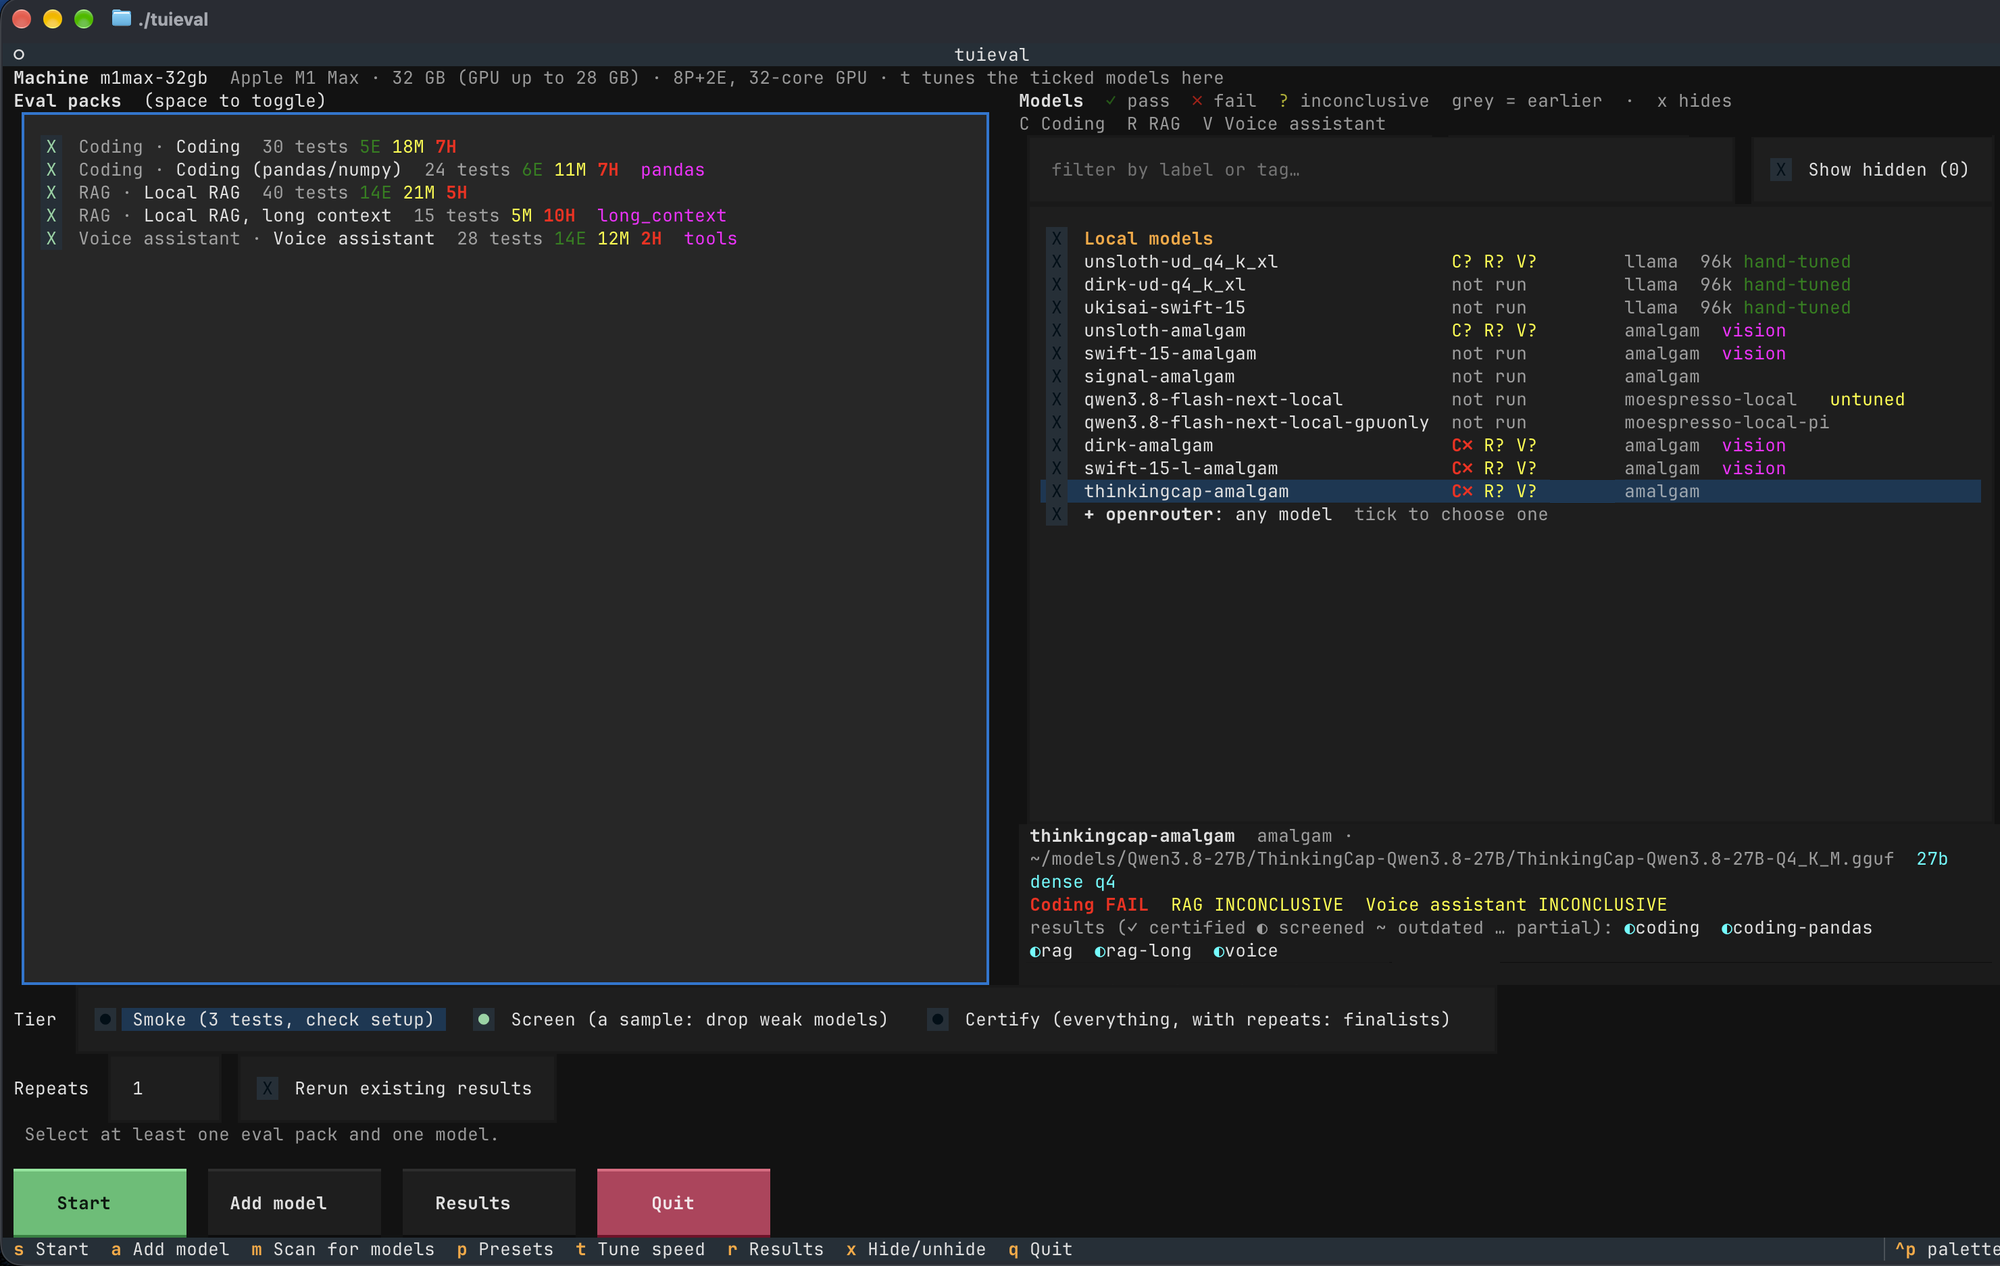
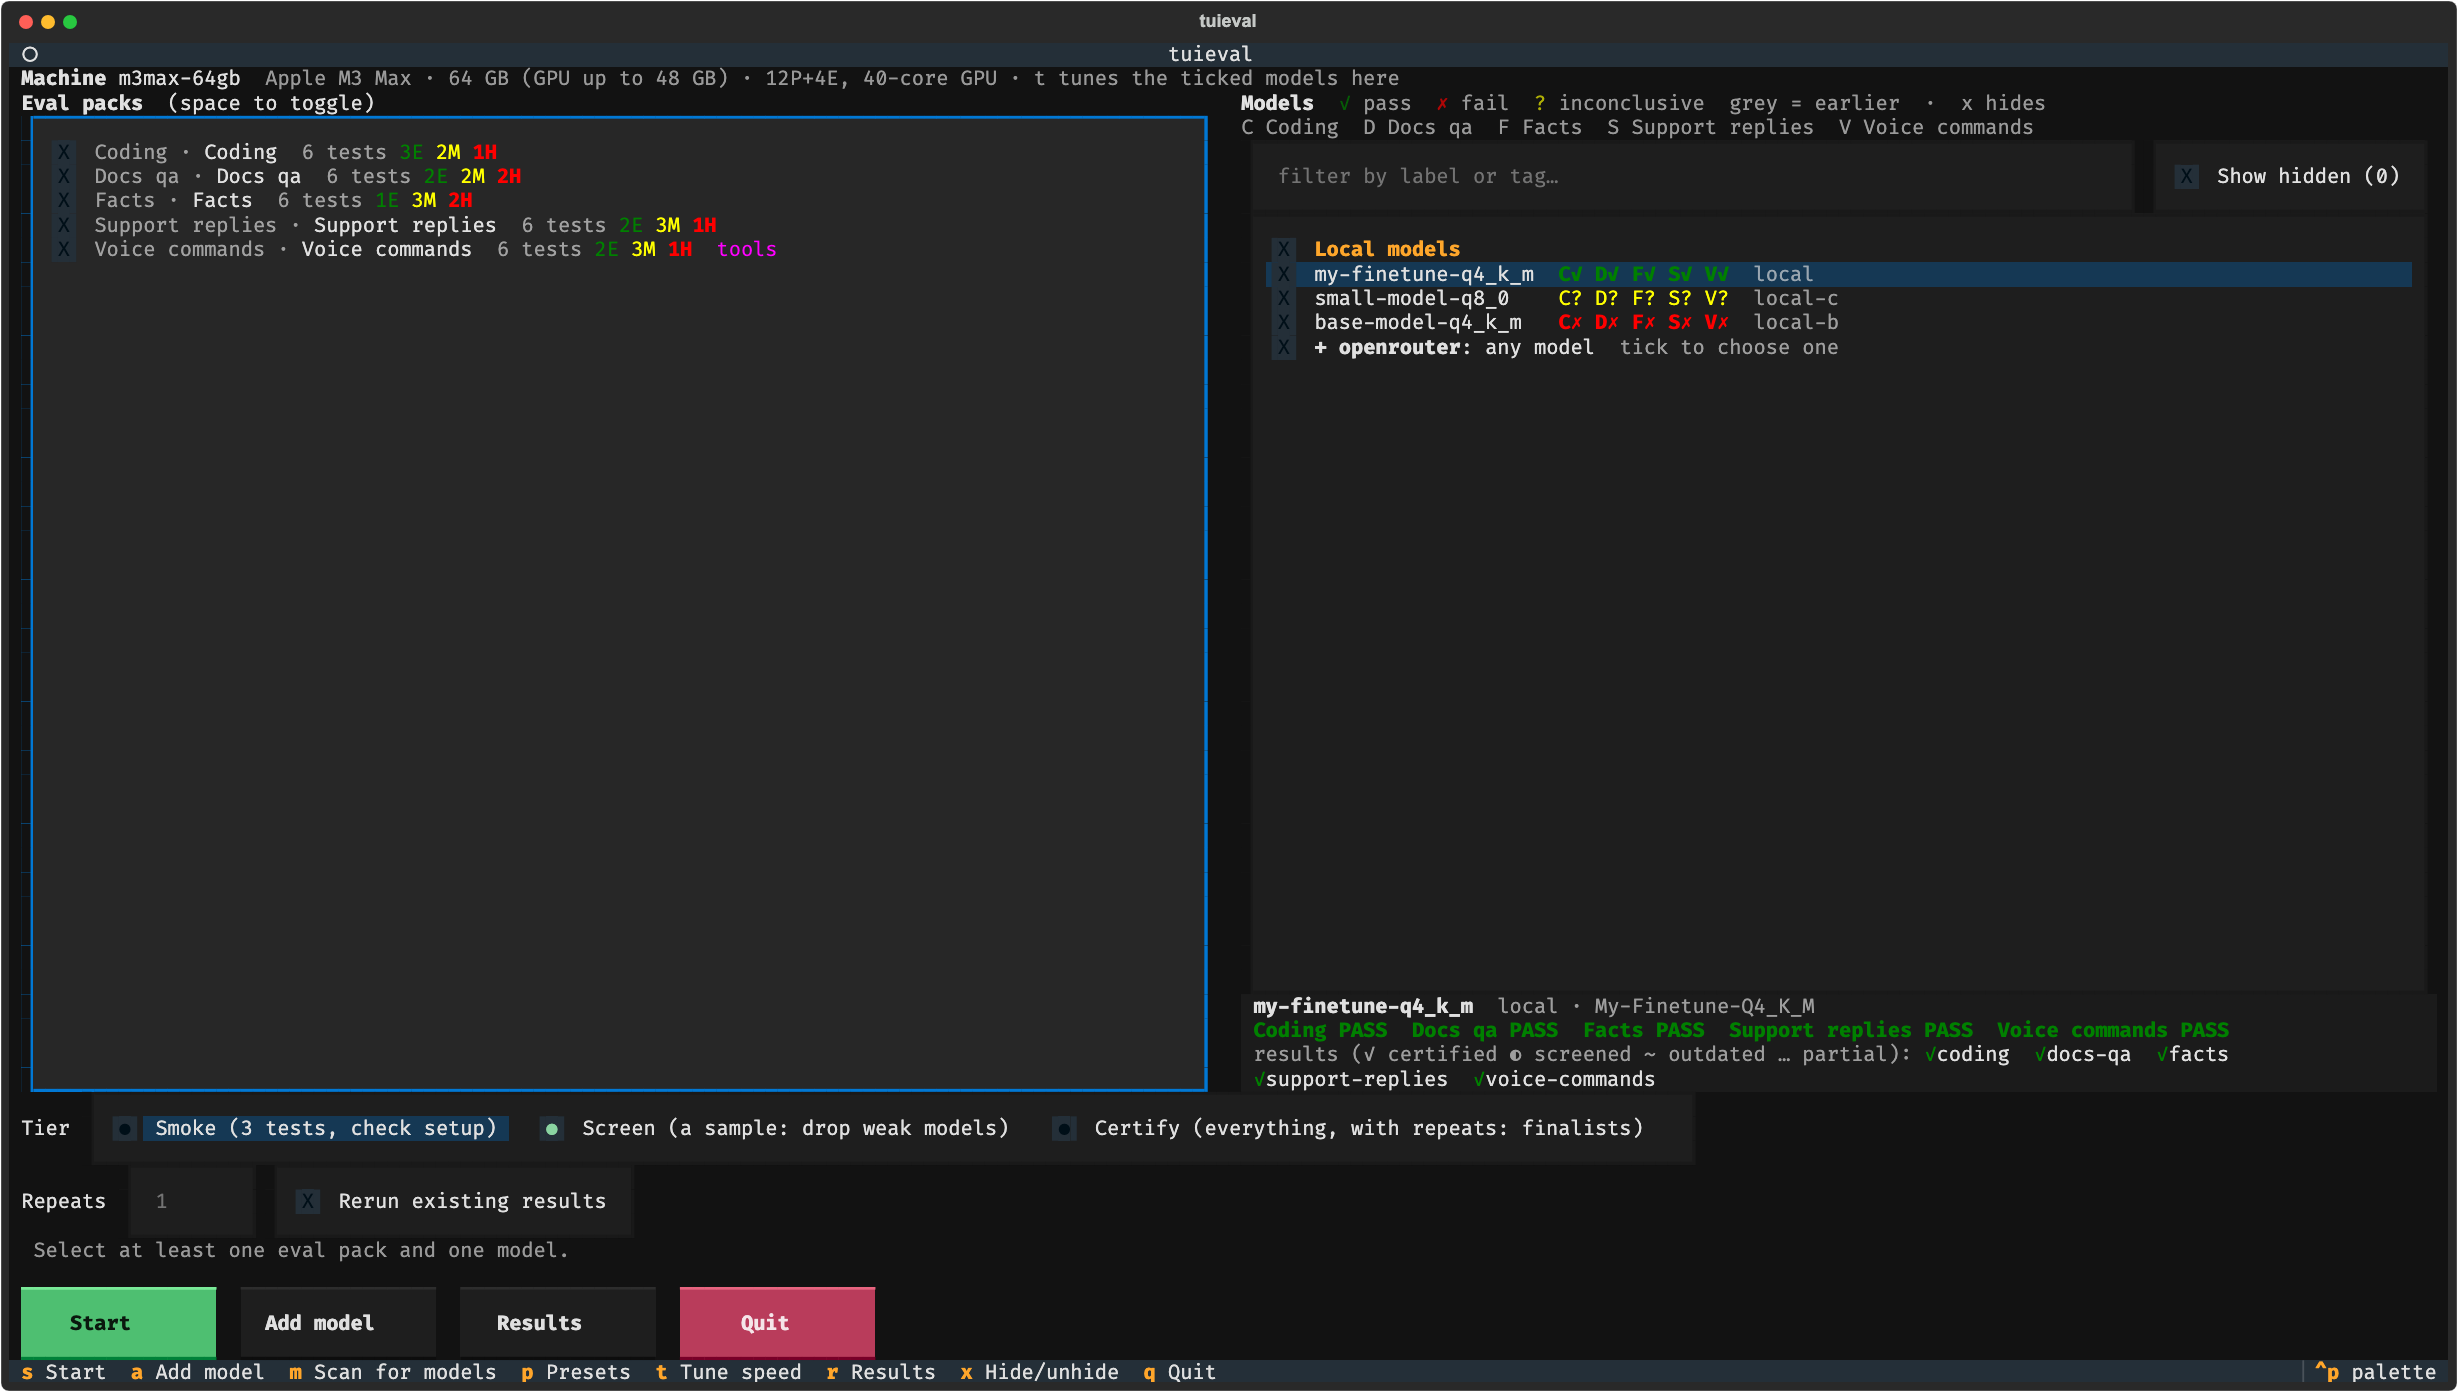
Keep docs and defaults generic; new README screenshot
- export pi has no default presets path; it is set with [export.pi] presets (the llama.cpp
  router's --models-preset file), and the docs describe the router generically.
- Machine examples and the GPU residency note no longer name a specific Mac.
- The README screenshot comes from a demo workspace (starter packs, three demo models).

Changed region(s): [[0.0, 0.0, 1.0, 1.0]]

diff --git a/src/tuieval/export.py b/src/tuieval/export.py
@@ -1,17 +1,18 @@
 """Export a model's serving settings to the pi coding agent, so pi serves it exactly as the evals did:
 the same model file, output-affecting flags and context, plus the speed flags tuned on this machine.
 
-  a section in llama-router's presets (~/models/presets.ini; keys that equal the [*] section are
-  left out) and an entry under pi's `llama` provider modelOverrides. Models on llama servers only.
+  a section in a llama.cpp router's model presets file (llama-server --models-preset; keys that
+  equal its [*] section are left out) and an entry under pi's `llama` provider modelOverrides.
+  Models on llama servers only.
 
 Every file is backed up next to itself (<file>.bak-tuieval-<time>) before it changes, and the diff
 is shown first. Paths come from models.toml [export.pi]:
 
   [export.pi]
-  presets = "~/models/presets.ini"            # llama-router --models-preset
+  presets = "/path/to/presets.ini"            # required: the router's --models-preset file
   pi_models = "~/.pi/agent/models.json"
   llama_provider = "llama"                     # pi's provider name for the router
-  servers = ["llama"]                          # models.toml servers that llama-router can serve
+  servers = ["llama"]                          # models.toml servers the router can serve
 """
 import configparser
 import difflib
@@ -23,7 +24,7 @@ import time
 
 from . import engine as engine_mod
 
-DEFAULTS = {"presets": "~/models/presets.ini", "pi_models": "~/.pi/agent/models.json",
+DEFAULTS = {"presets": None, "pi_models": "~/.pi/agent/models.json",
             "llama_provider": "llama", "servers": ["llama"]}
 # llama.cpp short flags -> the long names presets use as keys
 SHORT = {"-m": "model", "-c": "ctx-size", "-t": "threads", "-tb": "threads-batch", "-ub": "ubatch-size",
@@ -127,7 +128,7 @@ def plan(eng, label, model_id=None, name=None):
     m = eng.model(label)
     s = settings(eng)
     if m["server"] not in s["servers"]:
-        raise ExportError(f"{label} runs on the {m['server']} server; pi export writes llama-router presets, "
+        raise ExportError(f"{label} runs on the {m['server']} server; pi export writes llama.cpp router presets, "
                           "for llama servers ([export.pi] servers lists them)")
     model_id = model_id or m.get("pi_id") or default_id(m)
     name = name or m.get("pi_name") or model_id
@@ -157,6 +158,8 @@ def plan(eng, label, model_id=None, name=None):
     for k, key in SAMPLING_KEYS.items():
         if sampling.get(k) is not None:
             flags[key] = str(sampling[k])
+    if not s.get("presets"):
+        raise ExportError("set [export.pi] presets in models.toml to your llama.cpp router's --models-preset file")
     path = engine_mod.expand(s["presets"])
     old = _read(path)
     if not old:
@@ -183,7 +186,7 @@ def plan(eng, label, model_id=None, name=None):
                   "maxTokens": entry.get("maxTokens", sampling.get("max_tokens")),
                   "reasoning": bool(sampling.get("enable_thinking", True)),
                   "input": ["text", "image"] if vision else ["text"]})
-    notes.append("restart llama-router to load the new presets (llama-router restart)")
+    notes.append("restart the llama.cpp router so it reads the new presets")
     if sampling.get("reasoning_effort"):
         notes.append(f"the evals ran reasoning_effort {sampling['reasoning_effort']}: pick that thinking level in pi")
     pi_new = json.dumps(pi, indent=2, ensure_ascii=False) + "\n"

diff --git a/src/tuieval/machines.py b/src/tuieval/machines.py
@@ -1,6 +1,6 @@
 """Which machine this is, what a model needs, and whether it fits.
 
-    detect()              -> Machine (chip, cores, RAM, GPU memory limit, id like "m1max-32gb")
+    detect()              -> Machine (chip, cores, RAM, GPU memory limit, id like "m3max-64gb")
     read_gguf(path)       -> GGUF header facts (architecture, layers, KV heads, context length, …)
     fit(model_path, …)    -> Fit (largest context that fits this machine, estimated memory)
 
@@ -219,8 +219,7 @@ def swapped_out_bytes():
 
 
 # ---------------------------------------------------------------- GPU residency
-# Measured on an M1 Max 32 GB with macOS 27.0: once the system's GPU allocations exceed about half
-# of RAM, the GPU driver evicts and re-maps memory on every command submission (70-95% of the
+# On Apple Silicon Macs, once the system's GPU allocations exceed about half of RAM, the GPU driver evicts and re-maps memory on every command submission (70-95% of the
 # server's CPU in the kernel, GPU idle), whatever iogpu.wired_limit_mb says. Servers that submit
 # many small GPU jobs collapse; see the stall guard in docs/models.md.
 RESIDENCY_FRACTION = 0.5

diff --git a/src/tuieval/run_evals.py b/src/tuieval/run_evals.py
@@ -576,7 +576,7 @@ def cmd_export(argv):
                                 description="Write a model's serving settings (model file, output-affecting flags, "
                                             "context and the speed flags tuned on this machine) to another tool. "
                                             "Shows the diff and asks first; every file is backed up.")
-    p.add_argument("target", choices=["pi"], help="pi: the pi coding agent (llama-router presets and pi's "
+    p.add_argument("target", choices=["pi"], help="pi: the pi coding agent (llama.cpp router presets and pi's "
                                                   "models.json)")
     p.add_argument("labels", nargs="+", help="models to export")
     p.add_argument("--id", help="the model id pi sees (default: models.toml pi_id, else the GGUF's name)")

diff --git a/tests/test_tuieval.py b/tests/test_tuieval.py
@@ -398,6 +398,11 @@ class ExportPi(unittest.TestCase):
         pi = json.loads(next(c for c in changes if c.path.endswith("models.json")).new)
         self.assertEqual(pi["providers"]["llama"]["modelOverrides"]["Old"]["contextWindow"], 98304)
 
+    def test_presets_path_is_required(self):
+        del self.eng.cfg["export"]["pi"]["presets"]
+        with self.assertRaises(self.export.ExportError):
+            self.export.plan(self.eng, "l")
+
     def test_only_llama_servers(self):
         with self.assertRaises(self.export.ExportError):
             self.export.plan(self.eng, "s")

diff --git a/src/tuieval/compare.py b/src/tuieval/compare.py
@@ -3,7 +3,7 @@
 Usage:
     tuieval compare                          # everything in results/<model>/<pack>.json
     tuieval compare --speed                  # speed & tokens table (TTFT, tok/s, tokens, memory)
-    tuieval compare --machine m4pro-24gb     # speed on another machine (measured there, or projected)
+    tuieval compare --machine m3max-64gb     # speed on another machine (measured there, or projected)
     tuieval compare --pairwise --failures    # is each difference real? which tests failed?
     tuieval compare results/some-model/*.json    # specific files
 """

diff --git a/docs/models.md b/docs/models.md
@@ -68,7 +68,7 @@ The best server flags differ per model and per machine, so tuieval splits them b
 
 ## Machines
 
-- **Machine id** is detected automatically (`m1max-32gb`, `m4pro-24gb`, …; set `EVALS_MACHINE` to rename it). Every result records the machine, the server version and the exact speed flags used. `tuieval machines` lists this machine and every other machine that has run the evals (they record themselves in `tuning/`).
+- **Machine id** is detected automatically (e.g. `m3max-64gb`, `m2-16gb`; set `EVALS_MACHINE` to rename it). Every result records the machine, the server version and the exact speed flags used. `tuieval machines` lists this machine and every other machine that has run the evals (they record themselves in `tuning/`).
 - **Fit check (Apple Silicon, llama):** before starting a GGUF, tuieval reads its header (layers, KV heads, hybrid attention layers) and picks the largest context that fits this machine's GPU memory, capped at `max_ctx`. A model that can't fit at 8k context is skipped with *doesn't fit on <machine>* instead of swapping. Packs that need more context than fits are skipped. It never quantizes the KV cache on its own, since that changes answers.
 - **Per-machine settings** go under `[machines.<id>]`: `memory_headroom_gb` (GPU memory kept free for macOS, default 4) and `gpu_residency_gb` (see the stall guard).
 
@@ -90,18 +90,18 @@ The knobs are `[servers.<name>.tune]` in `models.toml`: each knob is a list of o
 
 `tuieval export pi <model>` makes pi serve a model the way the evals did: the same file, the output-affecting flags, the context from the fit check, the model's sampling, and the speed flags tuned on this machine. `tuieval tune <model> --export-pi` does it right after tuning.
 
-It writes a `[<id>]` section in llama-router's presets file (keys that equal its `[*]` section are left out) and an entry under pi's `llama` provider `modelOverrides` (name, context window, vision, reasoning). It exports models on llama servers.
+It writes a `[<id>]` section in the model presets file of a llama.cpp router (`llama-server --models-preset <file>`; keys that equal its `[*]` section are left out) and an entry under pi's `llama` provider `modelOverrides` (name, context window, vision, reasoning). It exports models on llama servers.
 
-It shows the diff and the notes first (untuned or outdated tuning, other preset sections that name missing files, a reasoning effort to pick in pi), asks, backs every file up as `<file>.bak-tuieval-<time>`, and refuses to write a file that changed in the meantime. `--dry-run` only shows; `--yes` doesn't ask. Restart the router afterwards (`llama-router restart`).
+It shows the diff and the notes first (untuned or outdated tuning, other preset sections that name missing files, a reasoning effort to pick in pi), asks, backs every file up as `<file>.bak-tuieval-<time>`, and refuses to write a file that changed in the meantime. `--dry-run` only shows; `--yes` doesn't ask. Restart the router afterwards so it reads the new presets.
 
 The id pi sees defaults to the GGUF's name; set `pi_id` and `pi_name` on the model (or pass `--id`/`--name`). Paths and provider names come from `[export.pi]` in `models.toml`:
 
 ```toml
 [export.pi]
-presets = "~/models/presets.ini"
-pi_models = "~/.pi/agent/models.json"
+presets = "/path/to/presets.ini"           # required: the router's --models-preset file
+pi_models = "~/.pi/agent/models.json"       # pi's default
 llama_provider = "llama"     # pi's provider name for the router
-servers = ["llama"]          # models.toml servers that llama-router can serve
+servers = ["llama"]          # models.toml servers the router can serve
 ```
 
 ## Speed verdicts
@@ -110,7 +110,7 @@ Speed is judged separately, per machine: the same model can be production-grade 
 
 ## The stall guard (Apple Silicon)
 
-Measured on an M1 Max 32 GB: once the system's GPU allocations pass about half of RAM, the GPU driver evicts and re-maps memory on every GPU job, the server spends 70–95% of its CPU in the kernel while the GPU idles, and servers that submit many small GPU jobs slow to a crawl. For servers with `stall_guard = true`, tuieval samples the server's own vs kernel CPU time and the system's GPU allocation every 5 s during runs and tuning. If more than 70% of its CPU goes to the kernel for a minute, the run stops with an explanation instead of crawling for hours. Finished answers are kept and resume next time. If your machine behaves differently, set `gpu_residency_gb` under `[machines.<id>]`.
+On Apple Silicon Macs, once the system's GPU allocations pass about half of RAM, the GPU driver evicts and re-maps memory on every GPU job, the server spends 70–95% of its CPU in the kernel while the GPU idles, and servers that submit many small GPU jobs slow to a crawl. For servers with `stall_guard = true`, tuieval samples the server's own vs kernel CPU time and the system's GPU allocation every 5 s during runs and tuning. If more than 70% of its CPU goes to the kernel for a minute, the run stops with an explanation instead of crawling for hours. Finished answers are kept and resume next time. If your machine behaves differently, set `gpu_residency_gb` under `[machines.<id>]`.
 
 ## Server options
 

diff --git a/CHANGELOG.md b/CHANGELOG.md
@@ -2,12 +2,14 @@
 
 ## Unreleased
 
+- `tuieval export pi` has no default presets path any more: set `[export.pi] presets` to your llama.cpp router's `--models-preset` file.
+- A new README screenshot from a demo workspace.
 - Versions come from git tags: a tag `vX.Y.Z` is that release, and every commit on `main` after it is published automatically as a dev build `X.(Y+1).0.devN` (N = commits since the release). `pip install tuieval` keeps installing releases only; `pip install --pre tuieval` gets the latest build.
 
 ## 0.1.7 (replaces 0.1.6, withdrawn)
 
 - `tuieval tune` starts warm for fine-tunes: when a model with the same architecture and tensor shapes is already tuned on this machine, its flags are the starting point and only speculative decoding and micro-batch are re-tried (~4-6 server starts instead of 8-15). It tunes in full if the inherited flags fail, change answers or are slower than the defaults. `--cold` (or `[tune] warm_start = false`) always tunes in full; `[tune] warm_retest` names the re-tried knobs.
-- `tuieval export pi <model>` (and `tuieval tune --export-pi`) writes a model's serving settings to the pi coding agent: a llama-router preset section and pi's models.json. It shows the diff, asks, and backs every file up. See docs/models.md.
+- `tuieval export pi <model>` (and `tuieval tune --export-pi`) writes a model's serving settings to the pi coding agent: a llama.cpp router presets section and pi's models.json. It shows the diff, asks, and backs every file up. See docs/models.md.
 - `tuieval list` lists the models, with hidden ones separately (`--packs` lists the packs).
 - `tuieval remove <model>` / `--hidden` removes models: their models.toml entry, results, tuning profiles and hidden mark, archived in removed/.
 - `tuieval --help` gives every command its own line.

diff --git a/README.md b/README.md
@@ -21,7 +21,7 @@ tuieval                        # open the TUI
 
 Once you've added your own packs and models, the setup screen looks like this (packs on the left, models with a verdict code per use case on the right, the highlighted model's details below):
 
-![tuieval's setup screen with five eval packs and a dozen local models](https://raw.githubusercontent.com/ashe-wb/tuieval/main/docs/images/tui-setup.png)
+![tuieval's setup screen with five eval packs and three models with their verdicts](https://raw.githubusercontent.com/ashe-wb/tuieval/main/docs/images/tui-setup.png)
 
 ## What you get
 
